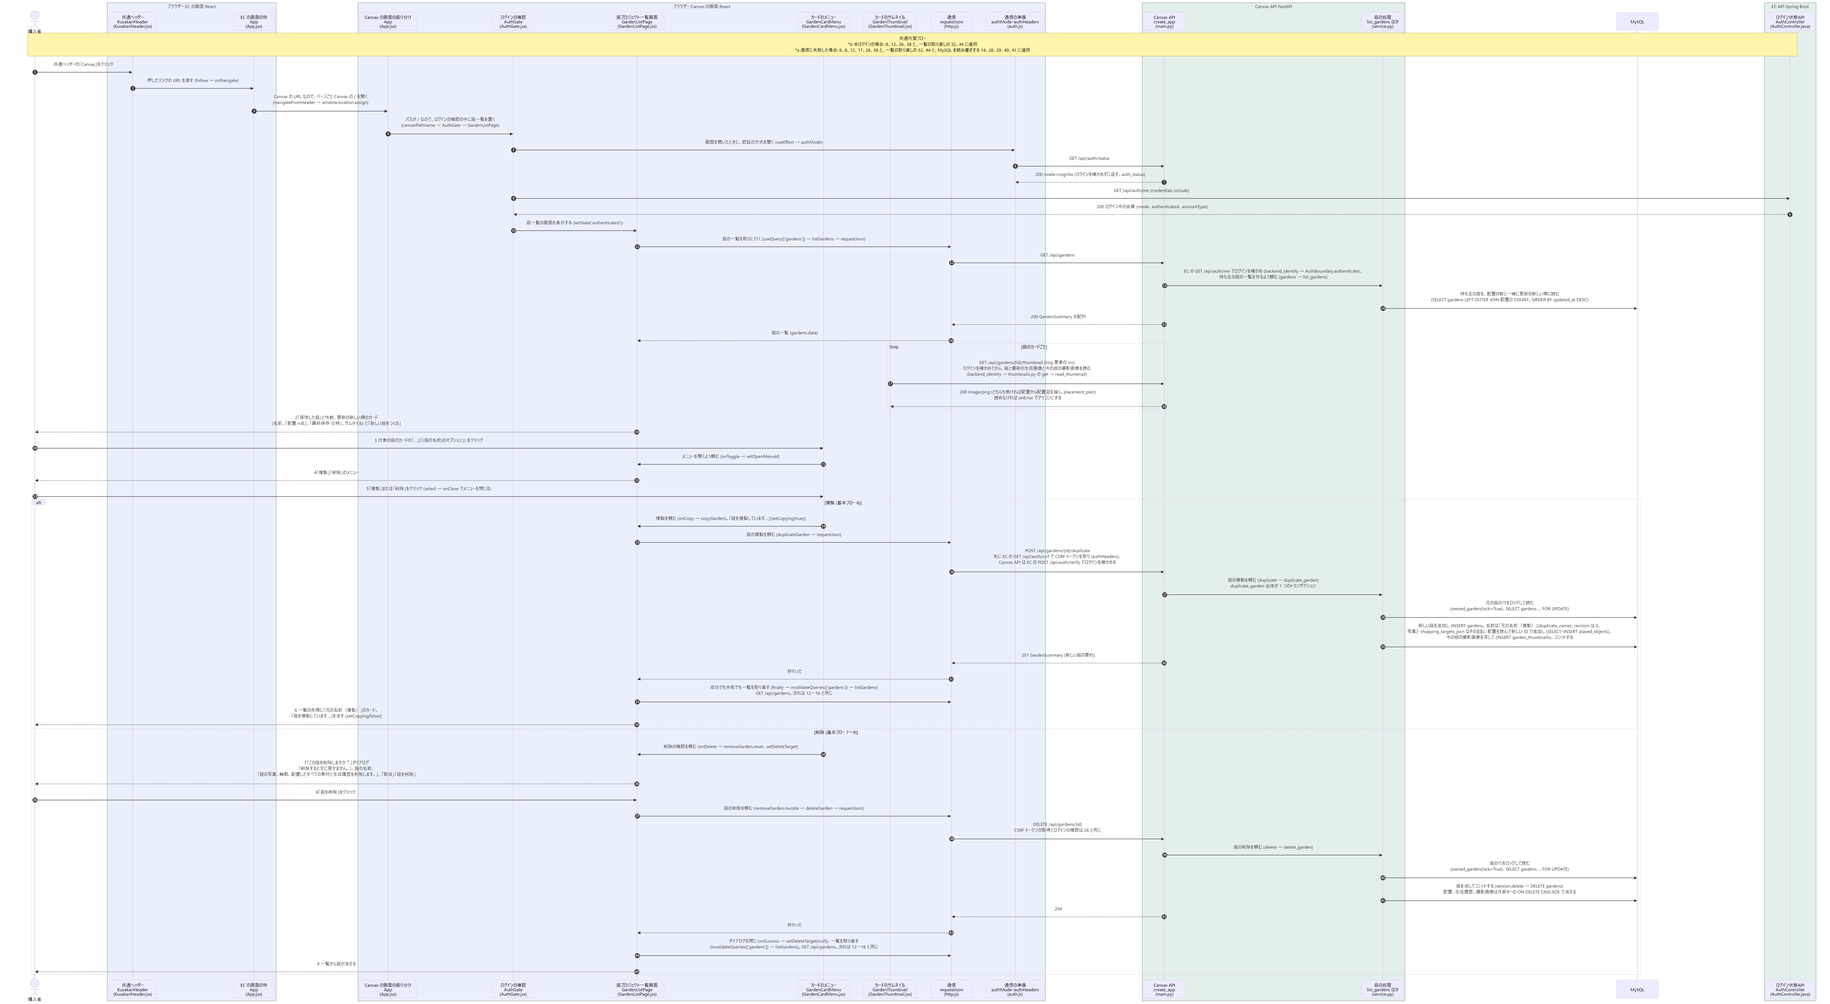
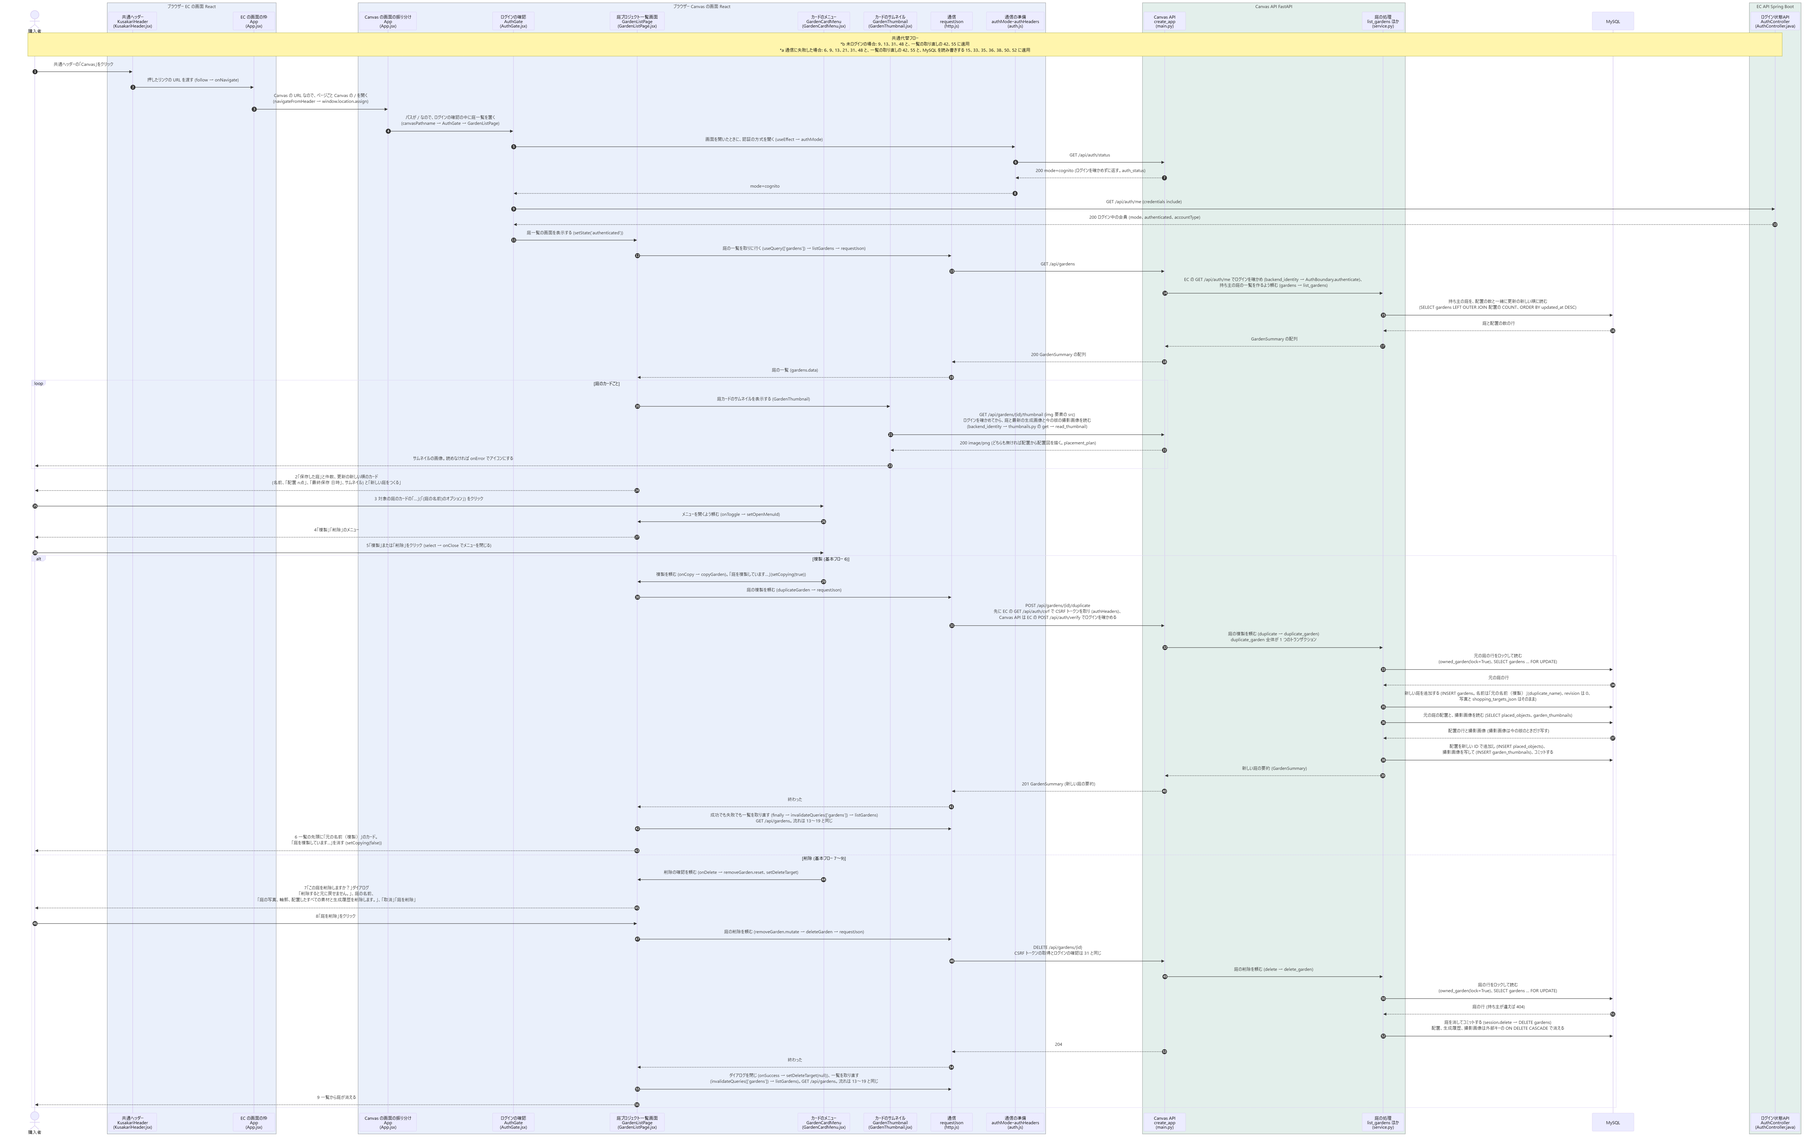
UC-07, 08, 09 の戻り矢印が不足しているのだけ修正

diff --git a/シーケンス図/kusakari-canvas/UC-09_買い物リストを表示する.md b/シーケンス図/kusakari-canvas/UC-09_買い物リストを表示する.md
@@ -28,16 +28,18 @@ sequenceDiagram
         participant EcWeb as 庭に設置したものから追加<br/>GardenItemsDialog<br/>(GardenItemsDialog.jsx)
     end
 
-    Note over User,EcWeb: 共通代替フロー<br/>*b 未ログインの場合: 4、7、照会の 11・28、自動保存の 35、移る前の保存の 41 と、再取得の 17 に適用<br/>*a 通信に失敗した場合: 4、7、照会の 11・28、自動保存の 35、移る前の保存の 41 と、再取得の 17 に適用 (7 と 17 は代替フロー 3b)
+    Note over User,EcWeb: 共通代替フロー<br/>*b 未ログインの場合: 4、8、照会の 13・32、自動保存の 43、移る前の保存の 51 と、再取得の 20 に適用<br/>*a 通信に失敗した場合: 4、8、照会の 13・32、自動保存の 43、移る前の保存の 51 と、再取得の 20 に適用 (8 と 20 は代替フロー 3b)
 
     User->>Editor: 庭プロジェクトを開く (UC-01-1。庭は GET /api/gardens/{id} で読み込み済み)
     Editor->>Hook: EC の商品の情報を取りに行くよう頼む (useCommerce(document, assets))
     Hook->>Com: 表示と同時に、購入できる商品の一覧を取る (useQuery ec-products → products)
     Com->>EcCat: GET /api/products (credentials include)
-    EcCat-->>Com: 200 購入できる商品だけ (名前、画像、価格 priceYen)。products.data になる
+    EcCat-->>Com: 200 購入できる商品だけ (名前、画像、価格 priceYen)
+    Com-->>Hook: 商品の配列 (products.data)
     Hook->>Com: 表示と同時に、この庭に EC で追加した商品を取る<br/>(useQuery ec-saved-items → savedItems(document.id))
     Com->>EcShop: GET /api/shopping-lists/{gardenId}/saved-items
-    EcShop-->>Com: 200 EC で追加した商品 (listRevision、商品 ID と名前)。saved.data になる<br/>(取れなければ 3b。CommerceError(data.message) を投げる)
+    EcShop-->>Com: 200 EC で追加した商品 (listRevision、商品 ID と名前)
+    Com-->>Hook: EC で追加した商品 (saved.data)。取れなければ CommerceError(data.message) を投げる (3b)
     Hook->>Shop: 2 配置を商品ごと (商品 ID が無ければアセットごと) に数え (placementRows)、<br/>配置に無い EC で追加した商品を足す (withSavedItems)
     Shop-->>Hook: 行 (quantity は配置の個数。足した行は quantity 1、unplaced が真)
     opt 行に商品 ID がある (商品 ID の組み合わせが変わるたびに送る)
@@ -48,7 +50,8 @@ sequenceDiagram
     Editor->>Unav: 買えなくなった商品の配置を調べるよう頼む (useUnavailablePlacements)<br/>戻らない理由で買えない配置を選ぶ (removedPlacements。DELETED、STORE_CLOSED、<br/>STORE_SUSPENDED、ORGANIZATION_SUSPENDED)
     opt 外す配置がある (庭を開いて最初の 1 回だけ。記述なし)
         Unav->>Store: その配置を庭から外す (removeObjects)
-        Note over Store,Unav: 結果: 未保存になり、32〜 の自動保存が走る。外した商品の名前を返す (removed)。<br/>画面: 「庭から外した商品があります」ダイアログ「(商品名)の商品は購入できなくなったため、庭から外しました。」「OK」
+        Store-->>Unav: 外した (true)
+        Note over Store,Unav: 結果: 未保存になり、37〜 の自動保存が走る。外した商品の名前を返す (removed)。<br/>画面: 「庭から外した商品があります」ダイアログ「(商品名)の商品は購入できなくなったため、庭から外しました。」「OK」
     end
     Editor->>Panel: 商品・買い物リストのサイドバーを描く (CommercePanel)
 
@@ -70,27 +73,34 @@ sequenceDiagram
 
     User->>Parts: 5 庭オブジェクトを設置・削除する (UC-05)
     Parts->>Store: 配置を足すか消すよう頼む (addAssetAt、deleteSelected)<br/>庭の配置を新しい配列にし、未保存にする (isDirty を真)
-    Store-->>Editor: 新しい庭と未保存の印 (useEditorStore)
+    Store->>Editor: 庭が変わったので、購読している画面を描き直す (document、isDirty)
     Editor->>Hook: 新しい庭で描き直す (useCommerce)
     Hook->>Shop: 行を作り直す (placementRows、withSavedItems)
+    Shop-->>Hook: 作り直した行
     opt 行の商品 ID の組み合わせが変わった
         Hook->>Com: 照会をやり直す (references(ids))
-        Note over Hook,EcCat: 結果: 流れは 11 と同じ。届くまでは前の結果を使う (keepPreviousData)。
+        Note over Hook,EcCat: 結果: 流れは 13 と同じ。届くまでは前の結果を使う (keepPreviousData)。
     end
+    Hook-->>Editor: 新しい行と照会結果 (rows、referenceMap)
     Editor->>Panel: 新しい行と照会結果でサイドバーを描き直す
     Panel->>Panel: 最後に保存が済んだときの配置と比べる<br/>(savedObjects と document.objects が違うので objectsChanged が真)
     Panel-->>User: 6 タブの（N）、設置した数、小計の目安と、「ECへ未反映」
     Editor->>Save: 庭が変わったことを渡す (useGardenAutosave)
-    Save->>Save: 操作が止まって 500 ms たったら保存する (setTimeout → save → setSaving)。<br/>サイドバーは「ECへ反映中…」
+    Save->>Save: 操作が止まって 500 ms たったら保存を始める (setTimeout → save)
+    Save->>Store: 保存中にする (setSaving(true))
+    Store->>Panel: 保存中になったので、購読している画面を描き直す (isSaving)
+    Panel-->>User: 「ECへ反映中…」
     Save->>Http: 庭全体を保存するよう頼む (saveGarden → requestJson)
     Http->>Main: PUT /api/gardens/{id} (CSRF トークンの取得とサーバーの中は UC-07 の図と同じ流れ)
     Main-->>Http: 200 GardenDocument
-    Http-->>Save: 保存した庭 (markSaved で保存済みにする)
+    Http-->>Save: 保存した庭
+    Save->>Store: 保存済みにする (markSaved)
+    Store->>Panel: 保存の状態が変わったので、購読している画面を描き直す (isDirty、isSaving)
     Panel-->>User: 保存が済んだ配置を覚え直し (setSavedObjects。objectsChanged が偽)、<br/>反映の状態を消す (反映済みの表示は無い)
 
     User->>Panel: 7「リストを確認」をクリック<br/>(輪郭の描画中、操作中、カタログの読み込み中は押せない)
     Panel->>Editor: EC のカート画面の URL へ移るよう頼む<br/>(onNavigate(/cart?garden={gardenId}) → requestNavigation)
-    Editor->>Save: 保存が終わるのを待つ (flush)。7a 保存中か、未保存の編集があれば、<br/>7a-1 保存中ならその応答を待ち、まだ未保存なら save をくり返す<br/>(PUT /api/gardens/{id}。流れは 34〜37 と同じ)。保存済みなら送らない
+    Editor->>Save: 保存が終わるのを待つ (flush)。7a 保存中か、未保存の編集があれば、<br/>7a-1 保存中ならその応答を待ち、まだ未保存なら save をくり返す<br/>(PUT /api/gardens/{id}。流れは 42〜45 と同じ)。保存済みなら送らない
     Save-->>Editor: 終わった (true)
     Editor->>EcWeb: 8 /cart?garden={gardenId} を開く (window.location.assign)
     EcWeb-->>User: 8「ショッピングカート」画面の「庭に設置したものから追加」ダイアログ (EC-B24)

diff --git a/シーケンス図/kusakari-canvas/UC-08_庭プロジェクトを管理する.md b/シーケンス図/kusakari-canvas/UC-08_庭プロジェクトを管理する.md
@@ -26,7 +26,7 @@ sequenceDiagram
         participant EcAuth as ログイン状態API<br/>AuthController<br/>(AuthController.java)
     end
 
-    Note over User,EcAuth: 共通代替フロー<br/>*b 未ログインの場合: 8、12、26、38 と、一覧の取り直しの 32、44 に適用<br/>*a 通信に失敗した場合: 6、8、12、17、26、38 と、一覧の取り直しの 32、44 と、MySQL を読み書きする 14、28、29、40、41 に適用
+    Note over User,EcAuth: 共通代替フロー<br/>*b 未ログインの場合: 9、13、31、48 と、一覧の取り直しの 42、55 に適用<br/>*a 通信に失敗した場合: 6、9、13、21、31、48 と、一覧の取り直しの 42、55 と、MySQL を読み書きする 15、33、35、36、38、50、52 に適用
 
     User->>Header: 共通ヘッダーの「Canvas」をクリック
     Header->>EcApp: 押したリンクの URL を渡す (follow → onNavigate)
@@ -35,6 +35,7 @@ sequenceDiagram
     Gate->>AuthJs: 画面を開いたときに、認証の方式を聞く (useEffect → authMode)
     AuthJs->>Main: GET /api/auth/status
     Main-->>AuthJs: 200 mode=cognito (ログインを確かめずに返す。auth_status)
+    AuthJs-->>Gate: mode=cognito
     Gate->>EcAuth: GET /api/auth/me (credentials include)
     EcAuth-->>Gate: 200 ログイン中の会員 (mode、authenticated、accountType)
     Gate->>List: 庭一覧の画面を表示する (setState('authenticated'))
@@ -42,11 +43,15 @@ sequenceDiagram
     Http->>Main: GET /api/gardens
     Main->>Svc: EC の GET /api/auth/me でログインを確かめ (backend_identity → AuthBoundary.authenticate)、<br/>持ち主の庭の一覧を作るよう頼む (gardens → list_gardens)
     Svc->>Db: 持ち主の庭を、配置の数と一緒に更新の新しい順に読む<br/>(SELECT gardens LEFT OUTER JOIN 配置の COUNT、ORDER BY updated_at DESC)
+    Db-->>Svc: 庭と配置の数の行
+    Svc-->>Main: GardenSummary の配列
     Main-->>Http: 200 GardenSummary の配列
     Http-->>List: 庭の一覧 (gardens.data)
     loop 庭のカードごと
+        List->>Thumb: 庭カードのサムネイルを表示する (GardenThumbnail)
         Thumb->>Main: GET /api/gardens/{id}/thumbnail (img 要素の src)<br/>ログインを確かめてから、庭と最新の生成画像と今の版の撮影画像を読む<br/>(backend_identity → thumbnails.py の get → read_thumbnail)
-        Main-->>Thumb: 200 image/png (どちらも無ければ配置から配置図を描く。placement_plan)<br/>読めなければ onError でアイコンにする
+        Main-->>Thumb: 200 image/png (どちらも無ければ配置から配置図を描く。placement_plan)
+        Thumb-->>User: サムネイルの画像。読めなければ onError でアイコンにする
     end
     List-->>User: 2「保存した庭」と件数、更新の新しい順のカード<br/>(名前、「配置 n点」、「最終保存 日時」、サムネイル) と「新しい庭をつくる」
 
@@ -60,23 +65,29 @@ sequenceDiagram
         Http->>Main: POST /api/gardens/{id}/duplicate<br/>先に EC の GET /api/auth/csrf で CSRF トークンを取り (authHeaders)、<br/>Canvas API は EC の POST /api/auth/verify でログインを確かめる
         Main->>Svc: 庭の複製を頼む (duplicate → duplicate_garden)<br/>duplicate_garden 全体が 1 つのトランザクション
         Svc->>Db: 元の庭の行をロックして読む<br/>(owned_garden(lock=True)、SELECT gardens … FOR UPDATE)
-        Svc->>Db: 新しい庭を追加し (INSERT gardens。名前は「元の名前（複製）」(duplicate_name)、revision は 0、<br/>写真と shopping_targets_json はそのまま)、配置を読んで新しい ID で追加し (SELECT・INSERT placed_objects)、<br/>今の版の撮影画像を写して (INSERT garden_thumbnails)、コミットする
+        Db-->>Svc: 元の庭の行
+        Svc->>Db: 新しい庭を追加する (INSERT gardens。名前は「元の名前（複製）」(duplicate_name)、revision は 0、<br/>写真と shopping_targets_json はそのまま)
+        Svc->>Db: 元の庭の配置と、撮影画像を読む (SELECT placed_objects、garden_thumbnails)
+        Db-->>Svc: 配置の行と撮影画像 (撮影画像は今の版のときだけ写す)
+        Svc->>Db: 配置を新しい ID で追加し (INSERT placed_objects)、<br/>撮影画像を写して (INSERT garden_thumbnails)、コミットする
+        Svc-->>Main: 新しい庭の要約 (GardenSummary)
         Main-->>Http: 201 GardenSummary (新しい庭の要約)
         Http-->>List: 終わった
-        List->>Http: 成功でも失敗でも一覧を取り直す (finally → invalidateQueries(['gardens']) → listGardens)<br/>GET /api/gardens。流れは 12〜16 と同じ
+        List->>Http: 成功でも失敗でも一覧を取り直す (finally → invalidateQueries(['gardens']) → listGardens)<br/>GET /api/gardens。流れは 13〜19 と同じ
         List-->>User: 6 一覧の先頭に「元の名前（複製）」のカード。<br/>「庭を複製しています…」を消す (setCopying(false))
     else 削除 (基本フロー 7〜9)
         Card->>List: 削除の確認を頼む (onDelete → removeGarden.reset、setDeleteTarget)
         List-->>User: 7「この庭を削除しますか？」ダイアログ<br/>「削除すると元に戻せません。」、庭の名前、<br/>「庭の写真、輪郭、配置したすべての素材と生成履歴を削除します。」、「取消」「庭を削除」
         User->>List: 8「庭を削除」をクリック
         List->>Http: 庭の削除を頼む (removeGarden.mutate → deleteGarden → requestJson)
-        Http->>Main: DELETE /api/gardens/{id}<br/>CSRF トークンの取得とログインの確認は 26 と同じ
+        Http->>Main: DELETE /api/gardens/{id}<br/>CSRF トークンの取得とログインの確認は 31 と同じ
         Main->>Svc: 庭の削除を頼む (delete → delete_garden)
         Svc->>Db: 庭の行をロックして読む<br/>(owned_garden(lock=True)、SELECT gardens … FOR UPDATE)
+        Db-->>Svc: 庭の行 (持ち主が違えば 404)
         Svc->>Db: 庭を消してコミットする (session.delete → DELETE gardens)<br/>配置、生成履歴、撮影画像は外部キーの ON DELETE CASCADE で消える
         Main-->>Http: 204
         Http-->>List: 終わった
-        List->>Http: ダイアログを閉じ (onSuccess → setDeleteTarget(null))、一覧を取り直す<br/>(invalidateQueries(['gardens']) → listGardens)。GET /api/gardens。流れは 12〜16 と同じ
+        List->>Http: ダイアログを閉じ (onSuccess → setDeleteTarget(null))、一覧を取り直す<br/>(invalidateQueries(['gardens']) → listGardens)。GET /api/gardens。流れは 13〜19 と同じ
         List-->>User: 9 一覧から庭が消える
     end
 ```

diff --git a/シーケンス図/kusakari-canvas/UC-07_庭プロジェクトを保存する.md b/シーケンス図/kusakari-canvas/UC-07_庭プロジェクトを保存する.md
@@ -22,15 +22,16 @@ sequenceDiagram
         participant EcAuth as ログイン状態API<br/>AuthController<br/>(AuthController.java)
     end
 
-    Note over User,EcAuth: 共通代替フロー<br/>*b 未ログインの場合: 10、12、サムネイルの送信の 23 に適用 (10 と 12 は代替フロー 3d)<br/>*a 通信に失敗した場合: 10、12、サムネイルの送信の 23 と、MySQL を読み書きする 17、18、画像の保存先 (S3) に置く 16 に適用 (23 以外は代替フロー 3b)
+    Note over User,EcAuth: 共通代替フロー<br/>*b 未ログインの場合: 11、13、サムネイルの送信の 30 に適用 (11 と 13 は代替フロー 3d)<br/>*a 通信に失敗した場合: 11、13、サムネイルの送信の 30 と、MySQL を読み書きする 19、21、23、画像の保存先 (S3) に置く 17 に適用 (30 以外は代替フロー 3b)
 
     User->>Parts: 庭オブジェクトの配置・編集、輪郭の修正、辺の実寸の入力をする<br/>(UC-03〜UC-05)
     Parts->>Store: 編集中の庭を書き換えるよう頼む (transformObject、addAssetAt、<br/>confirmPhotoBoundary、setPhotoEdgeLength など)。<br/>新しい庭 (GardenDocument) にし、未保存にする (set、isDirty を真)
-    Store-->>Page: 新しい庭と未保存の印 (useEditorStore)
+    Store->>Page: 庭が変わったので、購読している画面を描き直す (document、isDirty)
     Page-->>User: 保存状態「自動保存待ち」(時計のアイコン)
     Page->>Save: 庭が変わったことを渡す (useGardenAutosave)
     Save->>Save: 保存できる状態かを確かめる (useEffect → saveBlocker)
     Save->>Store: 操作が止まって 500 ms たったら保存中にする<br/>(setTimeout → save → setSaving(true)、setSaveError(null)。庭が変わるたびにタイマーを置き直す)
+    Store->>Page: 保存中になったので、購読している画面を描き直す (isSaving)
     Page-->>User: 保存状態「保存中…」
     Save->>Http: 庭全体を保存するよう頼む (saveGarden(structuredClone(document)) → requestJson)
     Http->>EcAuth: 書き込みの前に CSRF トークンを取る GET /api/auth/csrf (authHeaders)
@@ -42,20 +43,26 @@ sequenceDiagram
     opt 画像の保存先が S3 (media.external)
         Svc->>Media: 庭の写真を保存先に置くよう頼む (store_photo)
         Note over Svc,Media: 結果: 先に庭を持ち主と ID で読んで revision を比べ (owned_garden。違えば 409)、S3 に put_object し (キーは内容の SHA-256 から作る)、dataUrl の代わりに imageKey を入れた写真にする。
+        Media-->>Svc: imageKey を入れた写真 (dataUrl は外す)
     end
     Svc->>Db: 庭の行をロックして読む<br/>(owned_garden(lock=True)、SELECT gardens … FOR UPDATE。持ち主が違えば 404)
+    Db-->>Svc: 庭の行。revision を比べる
     break 3c revision が違う (別の画面が先に保存した)
         Note over Page,Db: 結果: 409 REVISION_CONFLICT「庭が別の版で更新されています。最新データを取得してください。」を返す (setSaveError)。<br/>画面: 3c-1「別の保存結果と競合しました。編集内容は保持されています。再読み込み前に変更内容を確認してください。」と「再試行」、保存状態「保存できませんでした」(3c-2 編集内容は残る。3c-3 ユースケースを終える)
     end
-    Svc->>Db: 配置のアセットがカタログにあるかを読み (SELECT assets。無ければ 400 UNKNOWN_ASSET)、<br/>庭を書き換えて revision を 1 増やし、配置を消して入れ直し、コミットする<br/>(UPDATE gardens、DELETE placed_objects、INSERT placed_objects)
+    Svc->>Db: 配置のアセットがカタログにあるかを読む (SELECT assets)
+    Db-->>Svc: カタログにあるアセットの ID (無ければ 400 UNKNOWN_ASSET)
+    Svc->>Db: 庭を書き換えて revision を 1 増やし、配置を消して入れ直し、コミットする<br/>(UPDATE gardens、DELETE placed_objects、INSERT placed_objects)
+    Svc-->>Main: 保存した庭 (GardenDocument)
     Main-->>Http: 200 GardenDocument (保存した庭。新しい revision)
     Http-->>Save: 保存した庭
     Save->>Store: 保存済みにする (markSaved(saved, submitted))。送信中に編集が続いていたら、<br/>未保存のまま revision だけ新しくする。庭のキャッシュを置き換え、庭一覧を取り直させる<br/>(setQueryData、invalidateQueries)
+    Store->>Page: 保存の状態が変わったので、購読している画面を描き直す (isSaving、isDirty)
     Page-->>User: 保存状態「保存済み」とチェックのアイコン
 
     opt 関連情報 保存のあと、一覧のサムネイルを送る (画面には何も出さない)
         Thumb->>Main: 保存済みで、操作中でも輪郭の描画中でもなく、すべてのモデルを読み込んだら (ready)、<br/>600 ms 後に今の表示を 640×400 px 以内の PNG にして送る (captureImage、thumbnailImage)<br/>POST /api/gardens/{id}/thumbnail (revision、dataUrl)
-        Note over Thumb,Db: 結果: CSRF トークンの取得とログインの確認は 10〜14 と同じ。thumbnails.py の save が PNG で 330,000 バイト以内かを確かめ、revision が同じなら撮影画像を追加か更新してコミットし (garden_thumbnails。S3 のときは put_object)、204 を返す。revision が違えば 409 THUMBNAIL_STALE を返す。<br/>画面: 何も出さない。409 なら 1.5 秒後に撮り直して送る (3 回まで)
+        Note over Thumb,Db: 結果: CSRF トークンの取得とログインの確認は 11〜15 と同じ。thumbnails.py の save が PNG で 330,000 バイト以内かを確かめ、revision が同じなら撮影画像を追加か更新してコミットし (garden_thumbnails。S3 のときは put_object)、204 を返す。revision が違えば 409 THUMBNAIL_STALE を返す。<br/>画面: 何も出さない。409 なら 1.5 秒後に撮り直して送る (3 回まで)
     end
 ```
 
